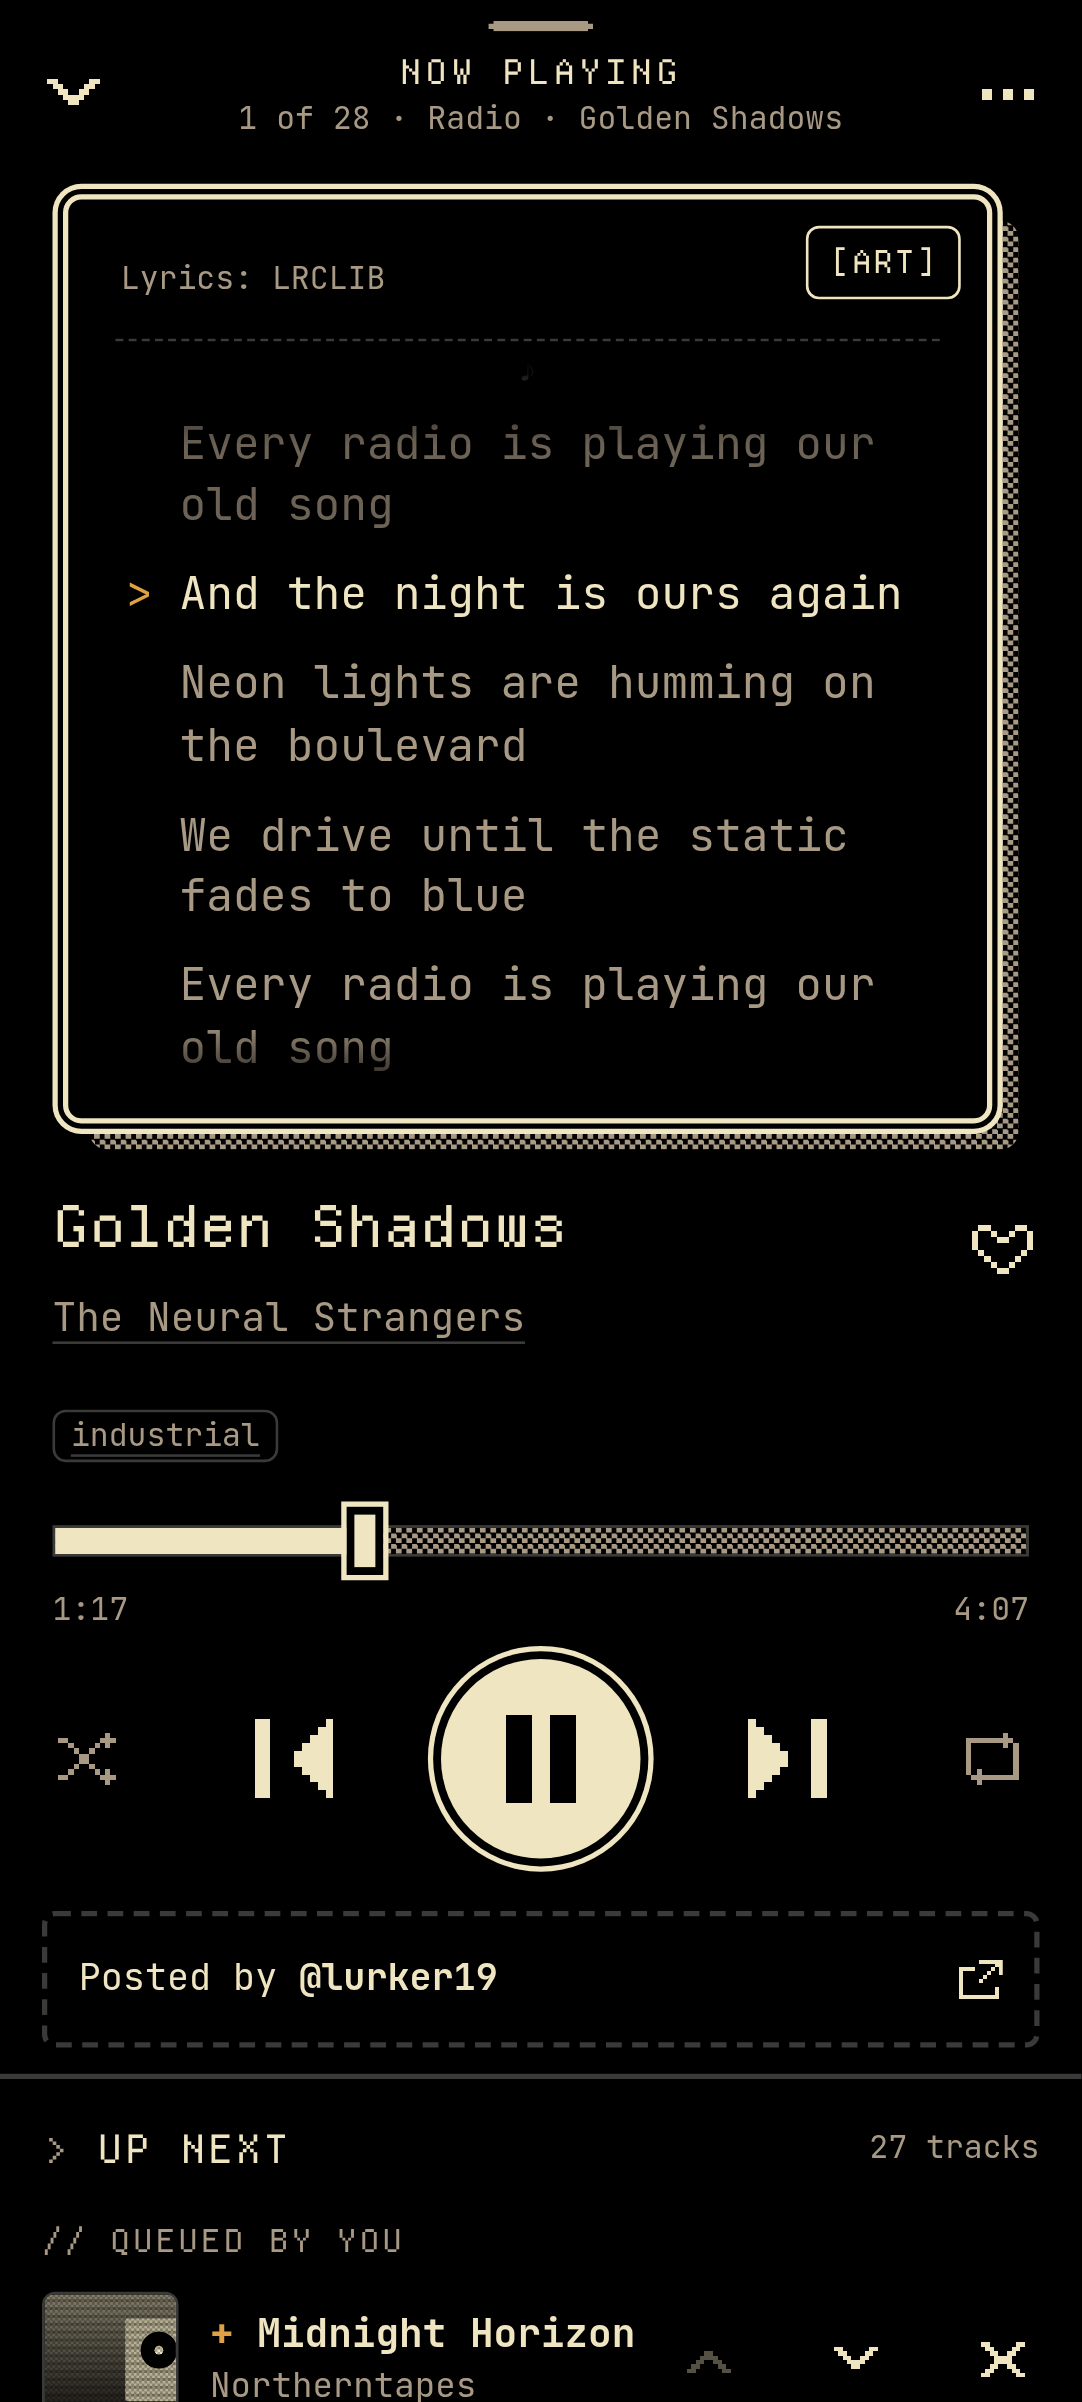
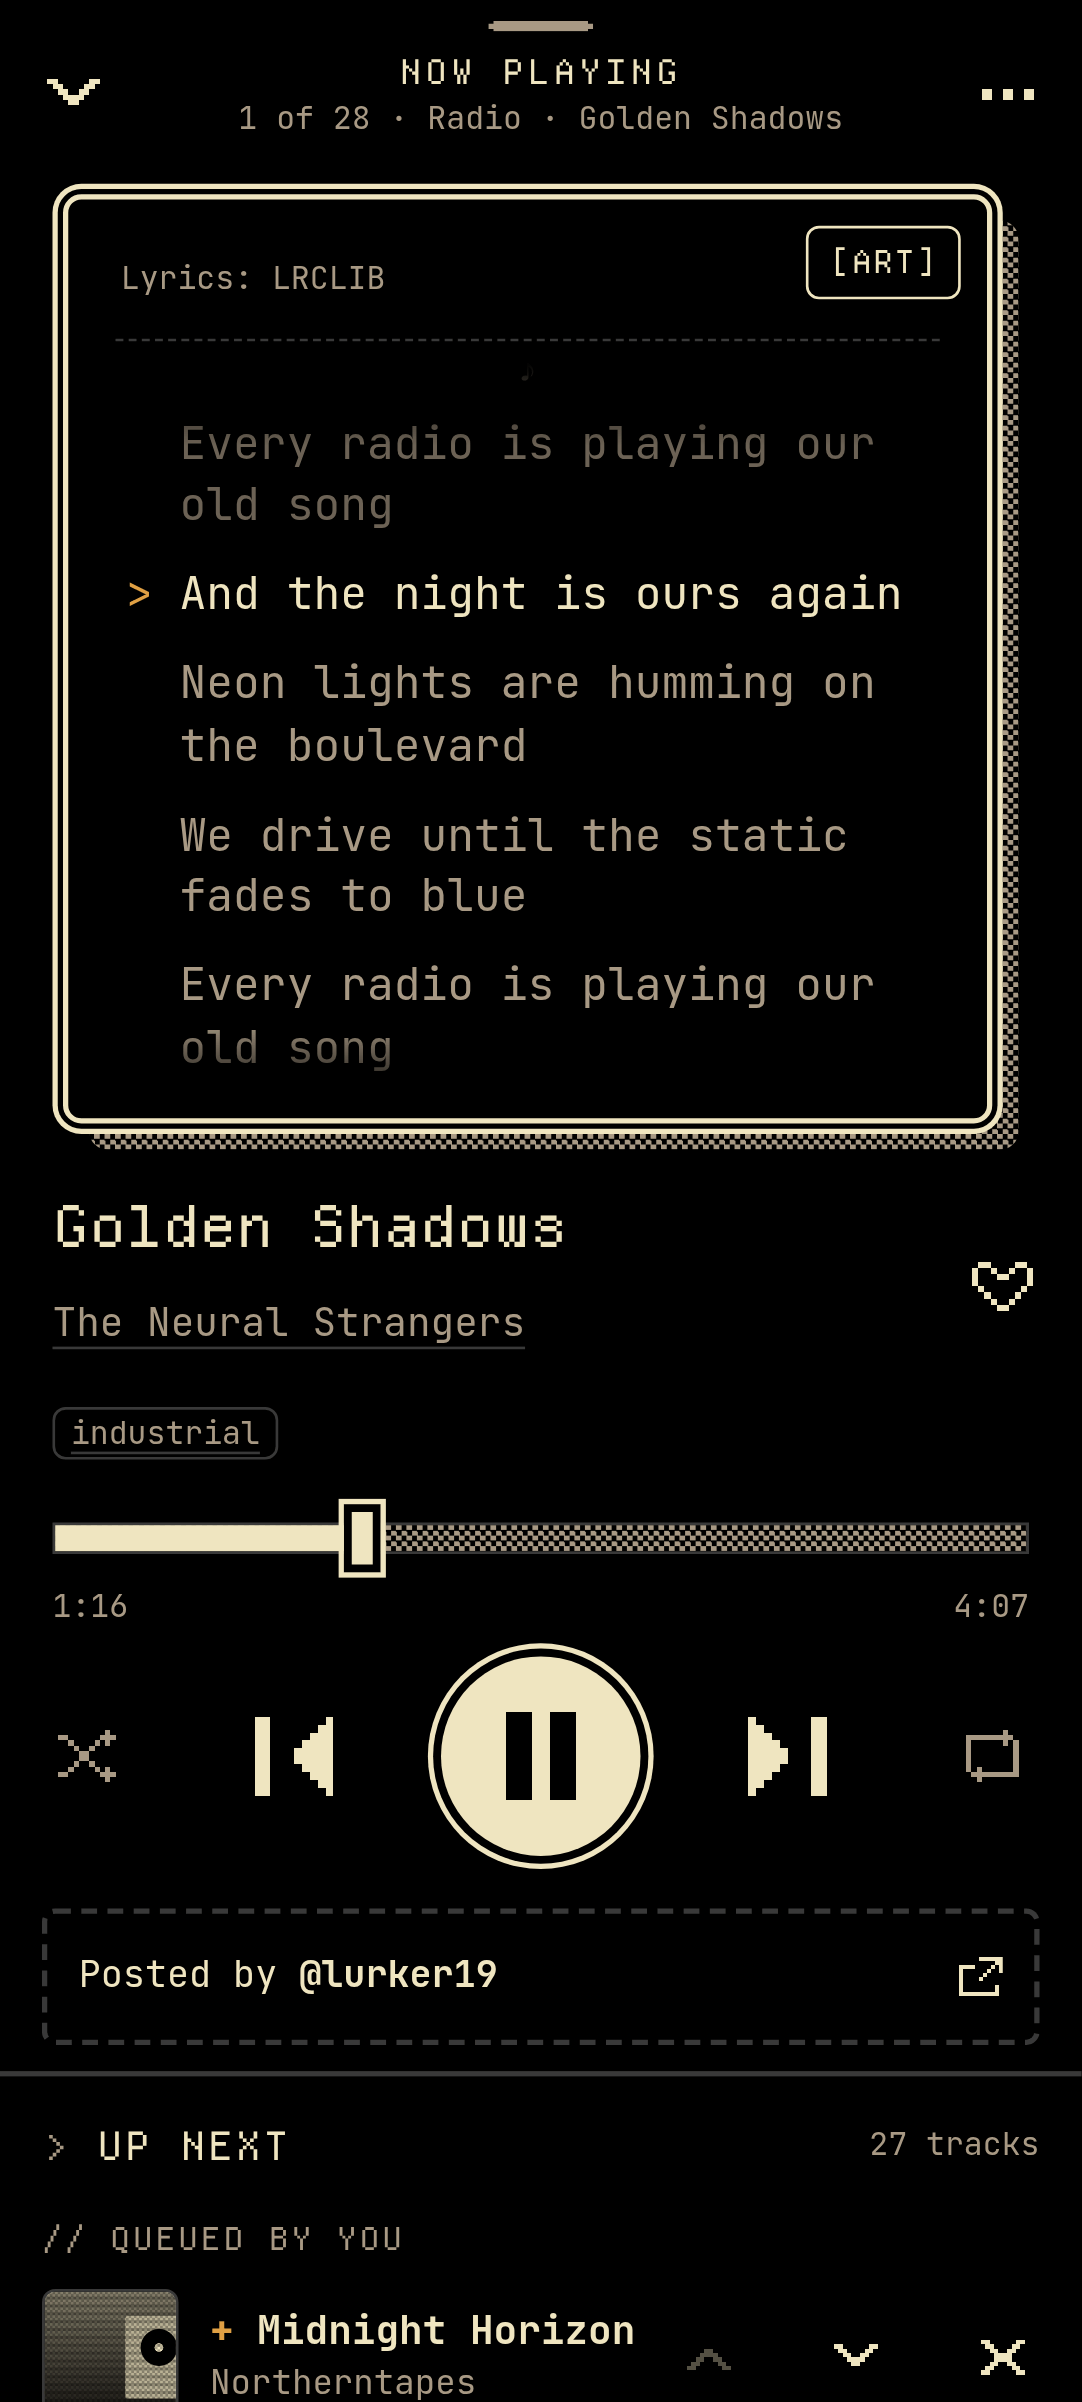
Search finds the music only; the Now Playing heart sits beside title and artist
- Jukebox and Here search match a track's title, artist and genre; the poster's
  username and the post's caption are no longer searched. Everything shown
  (credit to Cyberspace and its community) stays as it is.
- Now Playing: title and artist form one block with the ♥ centred beside both,
  instead of a 48px button hanging off the first line into the scrolling title.
  The genre (and members) tag has its own line below.
- Tests for both; README, store text and CHANGELOG updated; media regenerated.

Claude-Session: https://claude.ai/code/session_01Fbiu3sHHKxWcaPywLZnUEE

diff --git a/src/features/now-playing/PlayerUI.tsx b/src/features/now-playing/PlayerUI.tsx
@@ -365,27 +365,34 @@ function NowPlayingContent() {
           </div>
 
           <div class="np-meta">
-            <div class="np-titles">
-              <h2 class="np-title" data-testid="np-title">
-                <Marquee text={t.title} />
-              </h2>
-              <NpArtist track={t} />
-              {t.membersOnly && <MembersTag class="np-members" />}
-              {t.genre && (
-                <button class="tag np-genre" onClick={() => openGenrePage(t.genre)} aria-label={`Open genre ${t.genre}`} data-testid="np-genre">
-                  {t.genre}
-                </button>
-              )}
+            {/* Title and artist as one block, the heart centred beside both (it never sits on the scrolling title). */}
+            <div class="np-id">
+              <div class="np-titles">
+                <h2 class="np-title" data-testid="np-title">
+                  <Marquee text={t.title} />
+                </h2>
+                <NpArtist track={t} />
+              </div>
+              <button
+                class={'icon-btn like' + (isFav ? ' on' : '')}
+                aria-pressed={isFav}
+                aria-label={isFav ? 'Remove from liked' : 'Like'}
+                onClick={() => toggleLikeWithUndo(t)}
+                data-testid="np-like"
+              >
+                <Icon name={isFav ? 'heart' : 'heartOutline'} size={28} />
+              </button>
             </div>
-            <button
-              class={'icon-btn like' + (isFav ? ' on' : '')}
-              aria-pressed={isFav}
-              aria-label={isFav ? 'Remove from liked' : 'Like'}
-              onClick={() => toggleLikeWithUndo(t)}
-              data-testid="np-like"
-            >
-              <Icon name={isFav ? 'heart' : 'heartOutline'} size={28} />
-            </button>
+            {(t.membersOnly || t.genre) && (
+              <div class="np-tags">
+                {t.membersOnly && <MembersTag class="np-members" />}
+                {t.genre && (
+                  <button class="tag np-genre" onClick={() => openGenrePage(t.genre)} aria-label={`Open genre ${t.genre}`} data-testid="np-genre">
+                    {t.genre}
+                  </button>
+                )}
+              </div>
+            )}
           </div>
 
           <SeekBar s={s} />

diff --git a/src/data/search.test.ts b/src/data/search.test.ts
@@ -147,22 +147,33 @@ describe('searchTracks', () => {
     expect(ids('BEYONCÉ')).toEqual(['beyonce']);
     expect(ids('ac/dc')[0]).toBe('acdc');
     expect(ids('ac dc')[0]).toBe('acdc');
-    expect(ids('@kaguya').sort()).toEqual(['beyonce', 'citypop2']);
+    expect(ids('@kaguya')).toEqual([]); // a poster's name, not music
     expect(ids('aint no sunshine')).toEqual([]); // "ain t" splits; "aint" is not a typo target (4 letters)
     expect(ids('ain’t no sunshine')).toEqual(['soul']);
   });
 
   it('requires every query word to match (AND)', () => {
     expect(ids('city pop').sort()).toEqual(['citypop', 'citypop2']);
-    expect(ids('@centipede city pop')).toEqual(['citypop']);
+    // A poster's name is no search term (only the music counts).
+    expect(ids('@centipede city pop')).toEqual([]);
     expect(ids('iron metallica')).toEqual([]);
   });
 
-  it('ranks title/artist matches above post-title matches, phrase first', () => {
+  it('ranks a title phrase first, then artists', () => {
     const r = ids('dark');
     expect(r[0]).toBe('darklord'); // title word + phrase bonus
-    expect(r.indexOf('darkthrone')).toBeLessThan(r.indexOf('postdark'));
-    expect(r.at(-1)).toBe('postdark');
+    expect(r).toContain('darkthrone');
+  });
+
+  it('finds the music only: not who posted it, nor the post caption', () => {
+    // "dark" only in the caption of postdark; "centipede", "eddie" only as posters.
+    expect(ids('dark')).not.toContain('postdark');
+    expect(ids('listening')).toEqual([]);
+    expect(ids('eddie')).toEqual([]);
+    expect(ids('centipede')).toEqual([]);
+    // The same word in a title or artist still finds that track.
+    const named = t({ id: 'named', title: 'Eddie', artist: 'Someone', by: 'z' });
+    expect(searchTracks(buildIndex([...CATALOG, named]), 'eddie').map((x) => x.id)).toEqual(['named']);
   });
 
   it('breaks ties by newest post', () => {

diff --git a/src/data/search.ts b/src/data/search.ts
@@ -7,7 +7,8 @@
  *  - every query word must match somewhere (AND), taking its best match:
  *      exact 1.0, start of a word 0.9, inside a word 0.6 (3+ letters),
  *      typo 0.5 (Damerau-Levenshtein 1 for 5-7 letters, 2 for 8+; never for 1-4);
- *  - each match is weighted by field (title/artist 3, genre/poster 2, post title 1);
+ *  - each match is weighted by field (title/artist 3, genre 2). Only the music counts: who
+ *    posted a track, and the post's caption, are not searched;
  *  - +2 when the whole query appears in the title or artist as a phrase starting at a
  *    word boundary; ties go to Jukebox tracks before Global ones, then the newest post.
  */
@@ -20,8 +21,6 @@ const PHRASE_BONUS = 2;
 const W_TITLE = 3;
 export const W_ARTIST = 3;
 export const W_GENRE = 2;
-export const W_POSTER = 2;
-const W_POST_TITLE = 1;
 
 /** Letters NFKD leaves alone but people type without the diacritic. */
 const FOLD: Record<string, string> = { ß: 'ss', æ: 'ae', œ: 'oe', ø: 'o', ł: 'l', đ: 'd', ð: 'd', þ: 'th', ı: 'i' };
@@ -98,8 +97,6 @@ export function buildIndex(tracks: Track[]): SearchIndex {
       { words: words(track.title), weight: W_TITLE },
       { words: words(track.artist), weight: W_ARTIST },
       { words: words(track.genre), weight: W_GENRE },
-      { words: words(track.by), weight: W_POSTER },
-      { words: words(track.postTitle), weight: W_POST_TITLE },
     ],
     phrase: [' ' + normalize(track.title) + ' ', ' ' + normalize(track.artist) + ' '],
   }));

diff --git a/src/features/now-playing/now-playing.css b/src/features/now-playing/now-playing.css
@@ -194,14 +194,27 @@
   position: relative;
 }
 .np-meta {
-  display: flex;
-  align-items: flex-start;
-  gap: 8px;
   padding: 0 calc(var(--gutter) - 8px) 0 calc(var(--gutter) + 4px);
+}
+/* Title over artist, the heart centred on both lines (as music players do). */
+.np-id {
+  display: flex;
+  align-items: center;
+  gap: 4px;
+}
+.np-id:last-child {
+  margin-bottom: 12px;
 }
 .np-titles {
   flex: 1;
   min-width: 0;
+}
+.np-tags {
+  display: flex;
+  flex-wrap: wrap;
+  align-items: center;
+  gap: 8px;
+  margin: 10px 0 0;
 }
 .np-title {
   font-family: var(--font-display);
@@ -211,7 +224,7 @@
 .np-artist {
   font-size: 15px;
   color: var(--color-fg-dim);
-  margin: 0 0 12px;
+  margin: 2px 0 0;
 }
 
 /* The range is 48px tall (the touch area); the bar drawn in it stays 12px. */
@@ -562,10 +575,7 @@ button.lyr-line {
   color: var(--color-accent);
 }
 .np-members {
-  display: inline-block;
-  margin-right: 8px;
   font-size: 12px;
-  vertical-align: middle;
 }
 
 /* M2: Up, Down and Remove are 48x48 with 8px between them. */

diff --git a/tests/e2e/search.spec.ts b/tests/e2e/search.spec.ts
@@ -364,3 +364,16 @@ test('clearing the field shows the empty-query view at once, never results for t
   expect(stale).toBe(false);
   await expect(page.getByTestId('here-places')).toBeVisible();
 });
+
+test('Jukebox search finds music, not the people who posted it', async ({ page }) => {
+  await start(page);
+  // A poster's name, read off a row ("by @name").
+  const by = (await page.getByTestId('track-row').first().locator('.by').textContent())!.replace(/^by @/, '').trim();
+  await openSearch(page);
+  await page.getByTestId('search-input').fill(by);
+  await expect(page.getByTestId('search-empty')).toBeVisible();
+  await expect(page.getByTestId('search').getByTestId('track-row')).toHaveCount(0);
+  // An artist still finds their tracks.
+  await page.getByTestId('search-input').fill('neon');
+  await expect(page.getByTestId('search-results').getByTestId('track-row').first()).toBeVisible();
+});

diff --git a/README.md b/README.md
@@ -31,7 +31,7 @@ The Cyberspace Jukebox is where people on Cyberspace share the music they love, 
 - **Most saved**: the tracks people saved most on Cyberspace, this month or all time.
 - **Shuffle the Jukebox**: one tap for a random mix from the whole Jukebox.
 - **Autoplay**: when a list ends, similar songs keep playing. A Jukebox song leads to Jukebox songs picked by artist, genre and what the same people share; a Global song leads to that song's radio. Tracks you add with "Add to queue" always stay next.
-- **Search** every track on the Jukebox by title, artist, genre or @poster, with typo tolerance and recent searches. **Here** searches only the page you're on: a genre, an artist, an album, your library, or the Genres and Artists lists themselves.
+- **Search** every track on the Jukebox by title, artist or genre, with typo tolerance and recent searches. **Here** searches only the page you're on: a genre, an artist, an album, your library, or the Genres and Artists lists themselves.
 - **Genres** and **Artists**: browse everything shared on the Jukebox, A–Z or by popularity, and ★ your favourites to pin them to the top. An artist page puts what Cyberspace people shared first, then the artist's top songs, albums, live albums, EPs and singles from the artist's own page.
 - **Global search** (optional): a separate Global mode for any song, album or artist beyond the Jukebox. Global tracks play, like and queue like any other, but never show up on Home, Genres, Most saved or Shuffle.
 - **Sign in with Cyberspace** (optional): the Jukebox also shows the members-only shared tracks, marked `[members]`. See [Signing in](#signing-in).

diff --git a/CHANGELOG.md b/CHANGELOG.md
@@ -22,10 +22,10 @@ The first stable release.
 - Artist, genre and album pages open on the tab you're on; Back returns exactly where you were. Tapping the active tab scrolls to the top, then back to its first page.
 - Undo for unlike, unfavourite, removing from Up next and clearing history; confirmation before clearing history and signing out.
 - ★ marks favourite genres and artists (♥ is only for liked tracks); a genre or artist can be starred from its own page too.
-- Long titles scroll in Now Playing and the mini player; long-press a row for its menu; swipe up on the mini player.
+- Now Playing: the ♥ sits beside the title and artist; long titles scroll in Now Playing and the mini player; long-press a row for its menu; swipe up on the mini player.
 - Smoother pull to refresh, sheets and scrolling; bigger touch targets; no accidental text selection; a tap that stops a scroll no longer plays a track.
 - Settings → Licenses lists every bundled library and opens their full license texts.
-- Recent searches (with Clear all); "Here" search on the Genres and Artists tabs; shorter Settings text; better contrast in the C64, Matrix, Crypt and Bubblegum themes.
+- Search finds the music only (title, artist, genre), not who posted it. Recent searches (with Clear all); "Here" search on the Genres and Artists tabs; shorter Settings text; better contrast in the C64, Matrix, Crypt and Bubblegum themes.
 
 ### YouTube
 - **"YouTube is limiting requests" happens far less and clears by itself.**
